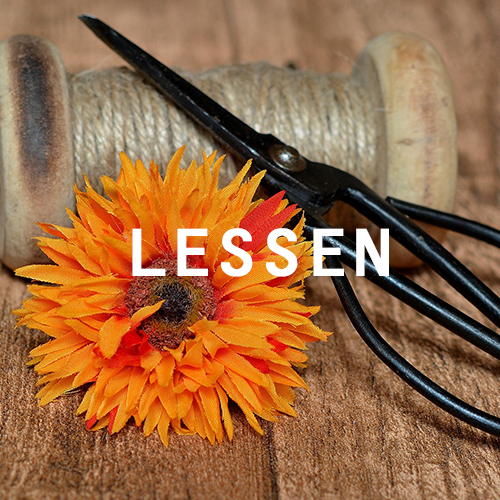
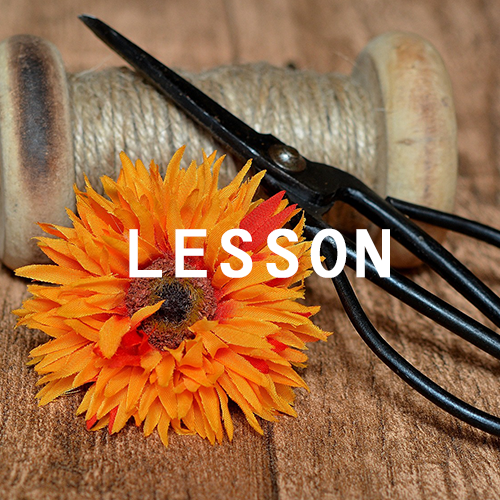
lessenをlessonに変更

Changed region(s): [[0.54, 0.45, 0.78, 0.57], [0.24, 0.45, 0.42, 0.57], [0.45, 0.45, 0.51, 0.57]]

diff --git a/gardening.html b/gardening.html
@@ -34,7 +34,7 @@ $(function(){
         <div class="menu">
           <div class="menuinner">
             <ul class="menuul">
-              <li><a href="lessen.html"><img src="img/header/menu1_off.png" alt="lessen" class="menu1"></a></li>
+              <li><a href="lesson.html"><img src="img/header/menu1_off.png" alt="lesson" class="menu1"></a></li>
               <li><a href="service.html"><img src="img/header/menu2_off.png" alt="service" class="menu2"></a></li>
               <li><a href="shop.html"> <img src="img/header/menu3_off.png" alt="shop" class="menu3"></a></li>
               <li><a href="about.html"><img src="img/header/menu4_off.png" alt="about" class="menu4"></a></li>

diff --git a/hakamairi.html b/hakamairi.html
@@ -34,7 +34,7 @@ $(function(){
         <div class="menu">
           <div class="menuinner">
             <ul class="menuul">
-              <li><a href="lessen.html"><img src="img/header/menu1_off.png" alt="lessen" class="menu1"></a></li>
+              <li><a href="lesson.html"><img src="img/header/menu1_off.png" alt="lesson" class="menu1"></a></li>
               <li><a href="service.html"><img src="img/header/menu2_off.png" alt="service" class="menu2"></a></li>
               <li><a href="shop.html"> <img src="img/header/menu3_off.png" alt="shop" class="menu3"></a></li>
               <li><a href="about.html"><img src="img/header/menu4_off.png" alt="about" class="menu4"></a></li>

diff --git a/shop.html b/shop.html
@@ -34,7 +34,7 @@ $(function(){
         <div class="menu">
           <div class="menuinner">
             <ul class="menuul">
-              <li><a href="lessen.html"><img src="img/header/menu1_off.png" alt="lessen" class="menu1"></a></li>
+              <li><a href="lesson.html"><img src="img/header/menu1_off.png" alt="lesson" class="menu1"></a></li>
               <li><a href="service.html"><img src="img/header/menu2_off.png" alt="service" class="menu2"></a></li>
               <li><a href="shop.html"> <img src="img/header/menu3_off.png" alt="shop" class="menu3"></a></li>
               <li><a href="about.html"><img src="img/header/menu4_off.png" alt="about" class="menu4"></a></li>
